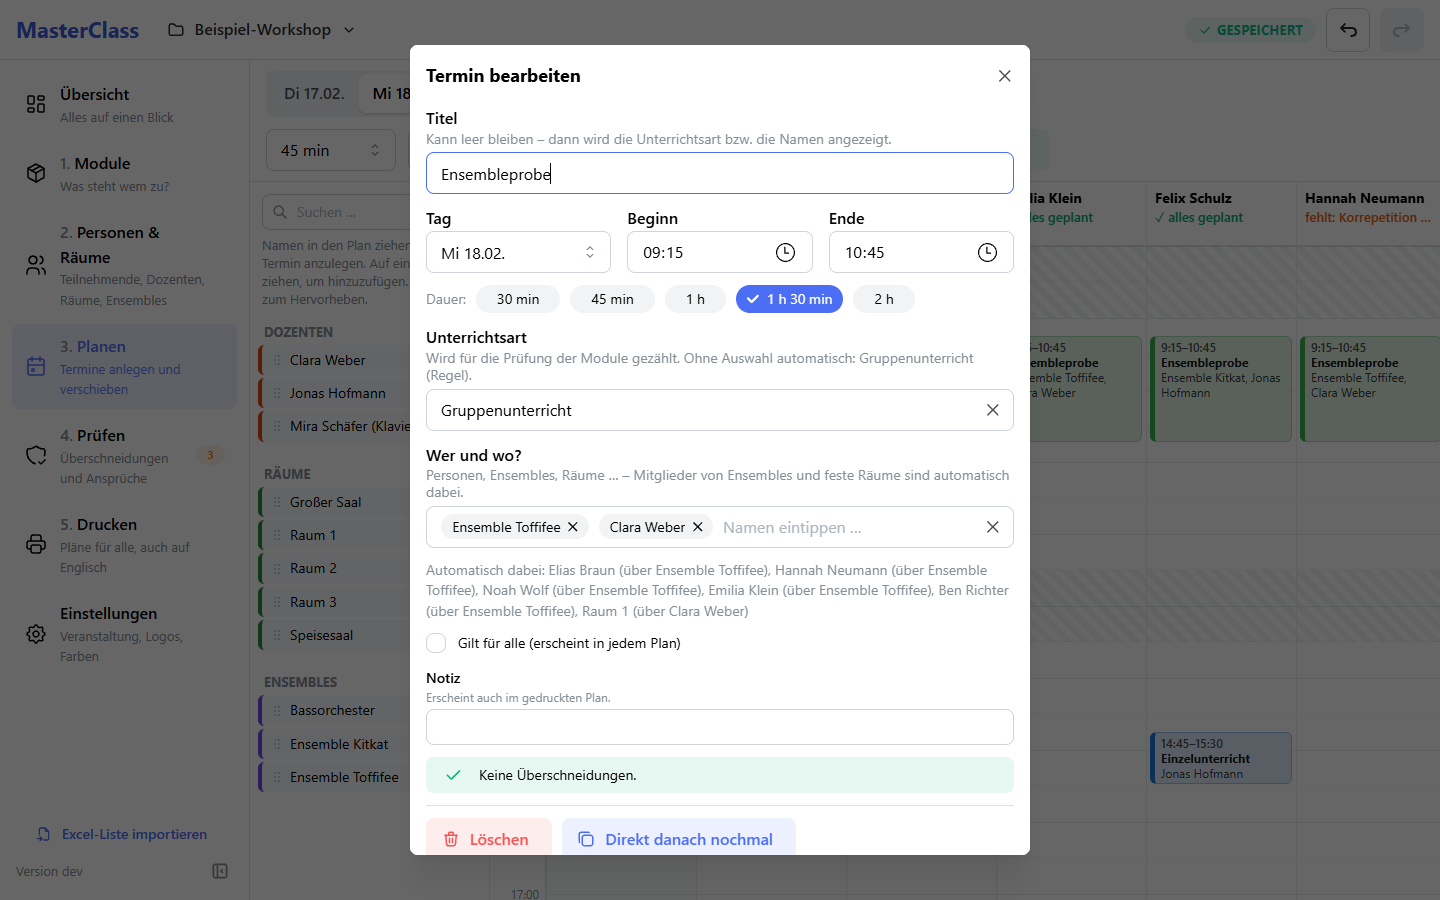
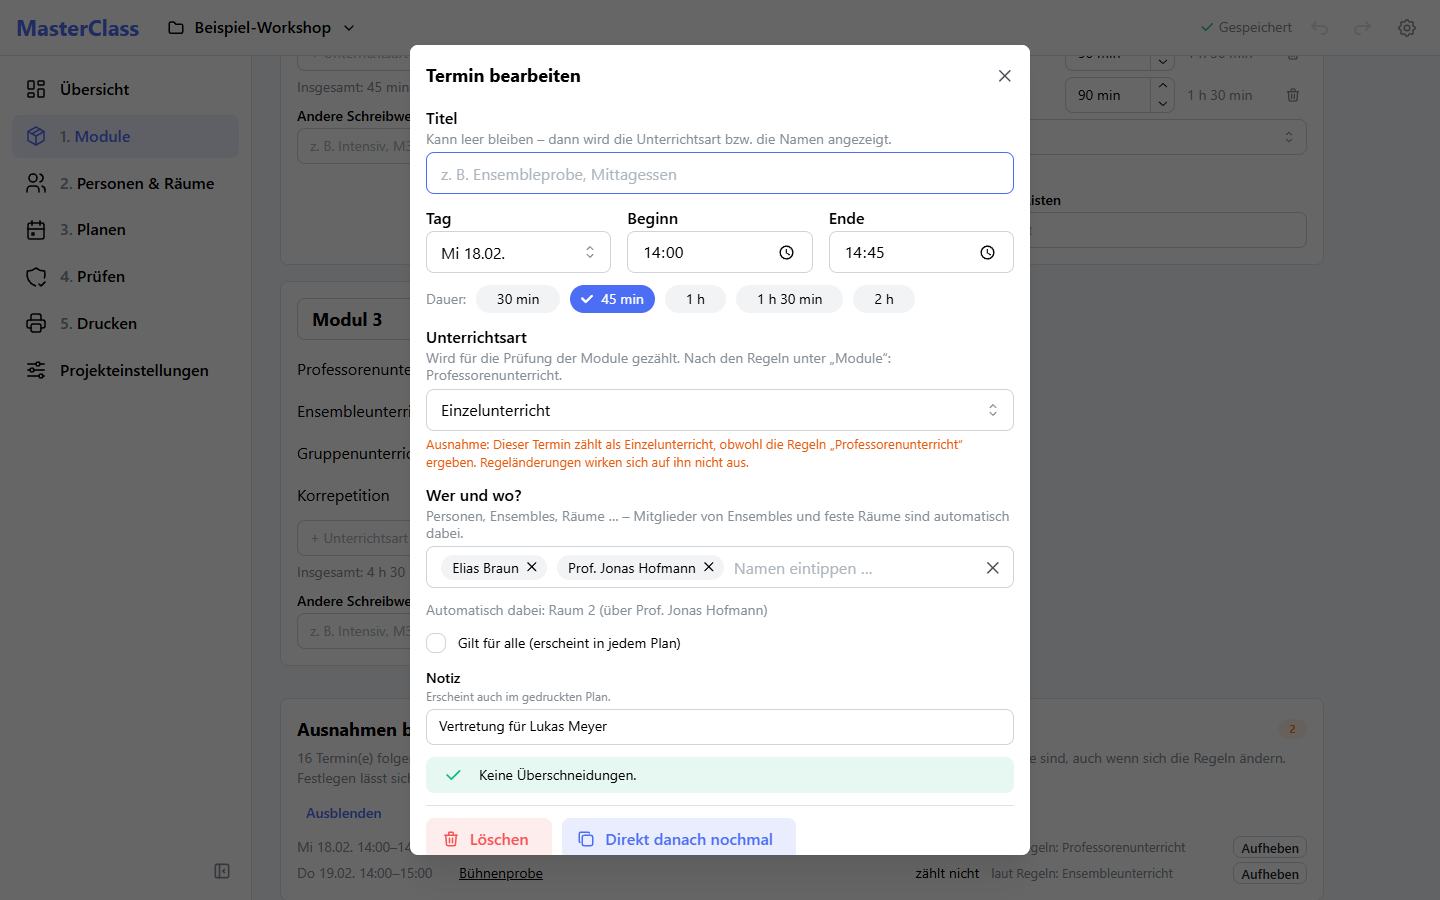
Neu in 2.4: verschachtelte Regeln, Ausnahmen pro Termin, Vorschau bei Regeländerungen

diff --git a/docs/ANLEITUNG.md b/docs/ANLEITUNG.md
@@ -88,27 +88,57 @@ Unter **„Andere Schreibweisen in Excel-Listen“** tragen Sie ein, wie das Mod
 
 ### Regeln: Termine automatisch zuordnen
 
-Damit ein Termin für die Module zählt, braucht er eine Unterrichtsart. Statt sie bei jedem Termin von Hand zu wählen, können Sie **Regeln** festlegen. Klicken Sie bei einer Unterrichtsart auf **„+ Regel“**:
+Damit ein Termin für die Module zählt, braucht er eine Unterrichtsart. Statt sie bei jedem Termin von Hand zu wählen, können Sie **Regeln** festlegen. Klicken Sie bei einer Unterrichtsart auf **„+ Regel“** (oder auf eine vorhandene Regel, um sie zu ändern):
 
 ![Regel bearbeiten](bilder/04-regel.png)
 
-Eine Regel hat zwei Bedingungen; was Sie leer lassen, ist egal:
+Eine Regel besteht aus Bedingungen. Es gibt drei Arten:
 
-- **„… einer dieser Einträge dabei ist“** – z. B. die Korrepetitorin. Dann zählt jeder Termin mit ihr als Korrepetition.
-- **„… und die Anzahl stimmt“** – z. B. genau 1 Teilnehmende → Einzelunterricht, ab 2 Teilnehmenden → Gruppenunterricht. Mitglieder eines Ensembles zählen mit: ein Ensemble mit vier Personen sind vier Teilnehmende.
+- **„Dabei ist …“**: einer der ausgewählten Einträge ist beim Termin dabei, z. B. die Korrepetitorin oder einer von zwei Professoren.
+- **„Nicht dabei ist …“**: keiner der ausgewählten Einträge ist dabei.
+- **„Anzahl“**: so viele Einträge einer Kategorie sind dabei, z. B. genau 1 Teilnehmer/in, ab 2 Teilnehmenden oder genau 1 Ensemble. Mitglieder zählen mit: ein Ensemble mit vier Personen sind vier Teilnehmende; das Bassorchester aus zwei Ensembles sind drei Ensembles.
 
-Beispiele für eine typische Einrichtung:
+Oben wählen Sie, wie die Bedingungen verknüpft sind: **„Alle davon (und)“** oder **„Mindestens eine davon (oder)“**. Über **„Bedingung hinzufügen“ → „Gruppe …“** setzen Sie eine Gruppe in die Regel, die selbst wieder „und“ oder „oder“ sein kann – so lässt sich alles beliebig kombinieren. Unter den Bedingungen steht die Regel noch einmal als Satz.
+
+Beispiele für eine typische Einrichtung (so ist auch das Beispielprojekt eingerichtet):
 
 | Unterrichtsart | Regel |
 |---|---|
+| Professorenunterricht | Prof. A **oder** Prof. B ist dabei **und** genau 1 Teilnehmer/in |
 | Korrepetition | Korrepetitorin ist dabei |
-| Meisterkurs | Prof. X ist dabei **und** genau 1 Teilnehmende |
-| Einzelunterricht | genau 1 Teilnehmende |
+| Ensembleunterricht | genau 1 Ensemble |
+| Einzelunterricht | genau 1 Teilnehmer/in |
 | Gruppenunterricht | mindestens 2 Teilnehmende |
 
-**Reihenfolge:** Treffen mehrere Regeln zu, gilt die Unterrichtsart, die weiter oben steht. Mit den kleinen Pfeilen links ändern Sie die Reihenfolge. Im Beispiel oben steht „Korrepetition“ deshalb vor „Einzelunterricht“: eine Teilnehmerin mit der Korrepetitorin ist Korrepetition, kein Einzelunterricht.
+**Reihenfolge:** Treffen mehrere Regeln zu, gilt die Unterrichtsart, die weiter oben steht. Mit den kleinen Pfeilen links ändern Sie die Reihenfolge. Im Beispiel steht „Professorenunterricht“ deshalb vor „Einzelunterricht“: Unterricht bei Prof. A mit einer Person ist Professorenunterricht, Unterricht bei einer anderen Dozentin Einzelunterricht.
 
-**Von Hand hat Vorrang:** Wählen Sie bei einem Termin selbst eine Unterrichtsart, gilt diese. Im Termin steht, welche Unterrichtsart die Regeln ergeben würden („Ohne Auswahl automatisch: …“).
+### Regeln ändern: Was passiert mit den Terminen?
+
+Regeln gelten immer für alle Termine – auch für die schon geplanten. Bevor Sie eine geänderte Regel speichern, zeigt MasterClass deshalb, was sich ändert:
+
+![Vorschau beim Ändern einer Regel](bilder/04b-regel-auswirkung.png)
+
+- welche Termine eine andere Unterrichtsart bekommen (z. B. „Professorenunterricht → Einzelunterricht: 2 Termine“),
+- bei wem sich das Ergebnis der Module ändert (z. B. „erfüllt → fehlt 45 min“),
+- wie viele schon gedruckte Pläne danach neu gedruckt werden müssen.
+
+Termine mit einer **Ausnahme** (siehe unten) ändern sich nicht. Gefällt Ihnen das Ergebnis nicht: „Abbrechen“ – oder nach dem Speichern „Rückgängig“.
+
+Wird eine Person gelöscht, die in einer Regel vorkommt, passt MasterClass die Regel an, ohne ihren Sinn zu verändern. Beispiel: Werden beide Professoren gelöscht, entfällt die Regel „Professorenunterricht“ ganz – sie wird nicht stillschweigend zu „genau 1 Teilnehmer/in“.
+
+### Ausnahmen bei einzelnen Terminen
+
+Manchmal soll ein Termin anders zählen, als die Regeln sagen. Dafür wählen Sie im Termin unter **„Unterrichtsart“**:
+
+- **„Automatisch: …“** – es gelten die Regeln (Standard). Dahinter steht, was die Regeln ergeben.
+- **eine feste Unterrichtsart** – z. B. eine Vertretungsstunde bei einem Professor, die trotzdem als Einzelunterricht zählen soll.
+- **„Zählt nicht (keine Unterrichtsart)“** – z. B. eine Bühnenprobe, die nicht für die Module zählen soll.
+
+Weicht ein Termin von den Regeln ab, steht das in Orange darunter. Unter „Module“ zeigt die Liste **„Ausnahmen bei einzelnen Terminen“** alle diese Termine; ein Klick auf den Namen öffnet den Termin, **„Aufheben“** lässt ihn wieder den Regeln folgen:
+
+![Ausnahmen bei einzelnen Terminen](bilder/18-ausnahmen.png)
+
+Haben Termine von Hand genau die Unterrichtsart, die sich auch aus den Regeln ergibt (häufig nach dem Übernehmen alter Daten), bietet MasterClass dort an, sie **auf automatisch umzustellen**. Dann folgen sie künftigen Regeländerungen.
 
 ## 5. Schritt 2: Personen, Räume und Ensembles
 
@@ -176,7 +206,7 @@ Oben wählen Sie den **Tag** und, was die **Spalten** sein sollen – meist Doze
 
 **Ändern:** Termin anklicken (Fenster öffnet sich), ziehen zum Verschieben (auch in eine andere Spalte), am unteren Rand ziehen für die Dauer.
 
-**Unterrichtsart für neue Termine:** Das Feld oben (neben der Dauer). Gibt es Regeln, steht dort „Automatisch (Regeln)“ – dann entscheiden die Regeln.
+**Unterrichtsart für neue Termine:** Das Feld oben (neben der Dauer). Gibt es Regeln, steht dort „Automatisch (Regeln)“ – dann entscheiden die Regeln. Ausnahmen für einzelne Termine legen Sie im Termin fest (siehe [Ausnahmen](#ausnahmen-bei-einzelnen-terminen)).
 
 ![Termin bearbeiten](bilder/10-termin.png)
 
@@ -268,7 +298,10 @@ Legen Sie die Projektdatei in einen gemeinsamen Cloud-Ordner (OneDrive, Dropbox,
 Das Programm ist nicht digital signiert. „Weitere Informationen“ → „Trotzdem ausführen“.
 
 **Ein Termin zählt nicht für das Modul.**
-Hat der Termin eine Unterrichtsart? Entweder im Termin wählen oder unter „Module“ eine Regel anlegen. „Prüfen“ zeigt Termine ohne Unterrichtsart, an denen Personen mit Modul teilnehmen.
+Hat der Termin eine Unterrichtsart? Entweder im Termin wählen oder unter „Module“ eine Regel anlegen. Steht im Termin „Zählt nicht“, ist er absichtlich ausgenommen. „Prüfen“ zeigt Termine ohne Unterrichtsart, an denen Personen mit Modul teilnehmen.
+
+**Ein Termin zählt als falsche Unterrichtsart.**
+Im Termin unter „Unterrichtsart“ steht, was die Regeln ergeben. Trifft eine weiter oben stehende Regel zu, gewinnt sie – Reihenfolge unter „Module“ ändern oder die Regel genauer fassen. Für einen einzelnen Termin genügt eine Ausnahme (feste Unterrichtsart im Termin).
 
 **Eine Person wird im Ensemble-Termin nicht als belegt erkannt.**
 Ist sie beim Ensemble unter „Immer mit dabei“ (bzw. bei der Person unter „Automatisch dabei bei“) eingetragen?

diff --git a/README.md b/README.md
@@ -45,6 +45,13 @@ Kurzfassung:
 5. **Prüfen**: Gibt es Überschneidungen? Bekommt jede Person, was ihr laut Modul zusteht?
 6. **Drucken** oder als PDF speichern – auf Deutsch oder Englisch.
 
+## Neu in Version 2.4
+
+- Regeln für die automatische Zuordnung lassen sich beliebig mit „und“/„oder“ verschachteln, z. B. Professorenunterricht = Prof. A oder Prof. B ist dabei und genau 1 Teilnehmer/in; Ensembleunterricht = genau 1 Ensemble. Neu ist auch „… ist nicht dabei“.
+- Ausnahmen bei einzelnen Terminen: feste Unterrichtsart oder „zählt nicht“. Unter „Module“ stehen alle Ausnahmen in einer Liste.
+- Beim Ändern einer Regel zeigt MasterClass vorher, welche Termine, Module und gedruckten Pläne sich dadurch ändern.
+- Das Beispielprojekt zeigt die neuen Regeln und Ausnahmen.
+
 ## Neu in Version 2.2
 
 - Dunkle Darstellung: hell, dunkel oder wie Windows – Umschalter (Sonne/Mond) oben rechts.
